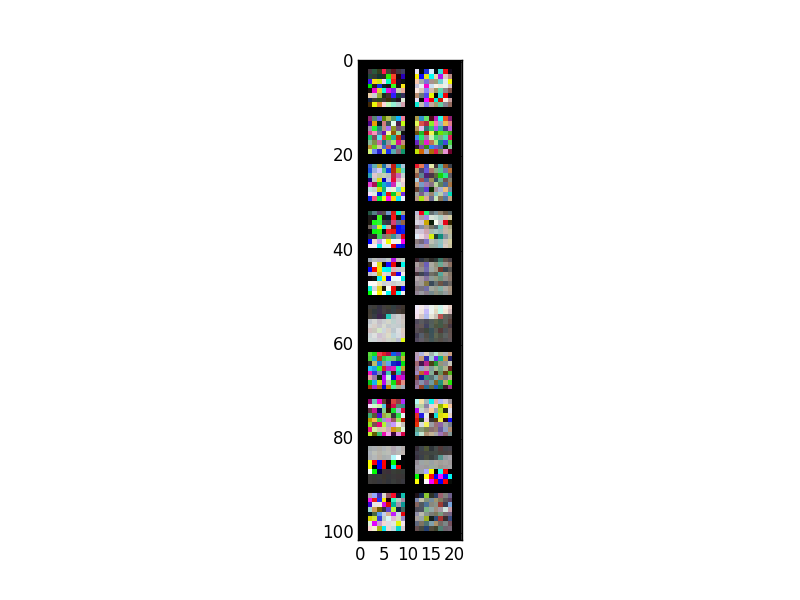
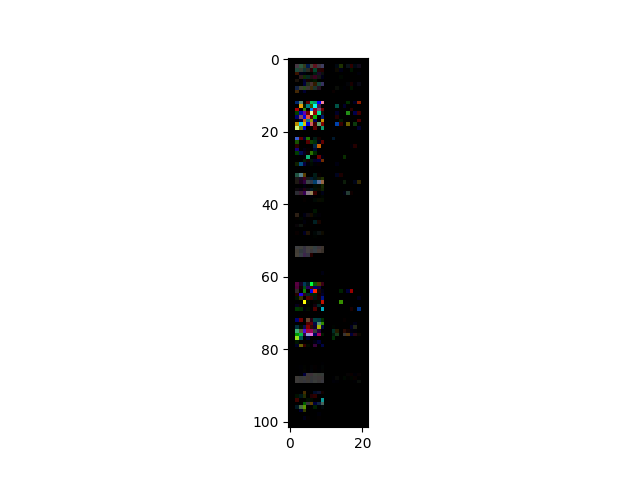
argaerg

Changed region(s): [[0.4062, 0.0938, 0.5938, 0.9375]]

diff --git a/colorSparAE/stlAEcolorTester.py b/colorSparAE/stlAEcolorTester.py
@@ -98,6 +98,43 @@ def Norm(mat):
 	nMax = 1
 	return ((mat - Min) / (Max - Min)) * (nMax - nMin) + nMin
 
+
+
+def display_encoding(W, samp_size=400):
+    W = (W + 1.0) / 2.0
+    dim = int(np.sqrt(W.shape[1]/3.0))
+    print W.shape, dim
+
+    grid_dim = int(np.sqrt(samp_size))
+    padding = 2
+    w, h = grid_dim*dim + padding*(grid_dim+1), grid_dim*dim + padding*(grid_dim+1)
+    row, col = -1, -1
+    grid = np.zeros((h, w, 3))
+    #grid -= 1
+
+    for x in W:
+        col += 1
+        if col % grid_dim == 0:
+            col = 0
+            row += 1
+
+        x_left = dim*col + (col+1)*padding
+        x_right = dim*(col+1) + (col+1)*padding
+        y_top = dim*row + (row+1)*padding
+        y_bottom = dim*(row+1) + (row+1)*padding
+
+        s = dim**2
+        img = np.zeros((dim, dim, 3))
+        img[:,:,0] = x[:s].reshape(dim, dim)
+        img[:,:,1] = x[s:2*s].reshape(dim, dim)
+        img[:,:,2] = x[2*s:].reshape(dim, dim)
+
+        grid[y_top:y_bottom, x_left:x_right] = img
+
+    plt.imshow(grid, interpolation='nearest')
+    plt.show()
+
+
 #----------STARTS HERE----------STARTS HERE----------STARTS HERE----------STARTS HERE
 
 
@@ -188,8 +225,9 @@ for i in range(g.f2):
 
 picX = np.zeros((g.f2,s,s, 3))
 for i in range(g.f2):
-	picX[i] = np.reshape(np.ravel(X[i]), (s,s, 3))
-
+	picX[i:i+1,:,:,0:1] = np.reshape(np.ravel(X[i][:64]), (1,s,s,1))
+	picX[i:i+1,:,:,1:2] = np.reshape(np.ravel(X[i][64:128]), (1,s,s,1))
+	picX[i:i+1,:,:,2:3] = np.reshape(np.ravel(X[i][128:]), (1,s,s,1))
 
 # Pic Facts
 h = 20 	# How many pictures in a row
@@ -209,14 +247,15 @@ for i in range(v):
 	picAll = np.vstack((picAll, pici, hblack))
 
 # Display the pictures
-imgplot = plt.imshow(picAll, cmap="binary", interpolation='nearest') 
+
+imgplot = plt.imshow(picAll, interpolation='nearest') 
 plt.savefig('res2/aHLm' + str(g.m)+ 'Tol'+str(g.tolexp)+'Lamb'+str(g.lamb)+'beta'+str(g.beta)+'.png',transparent=False, format='png')
 plt.show()
 
 
 
 
-
+display_encoding(X, 400)
 
 
 
